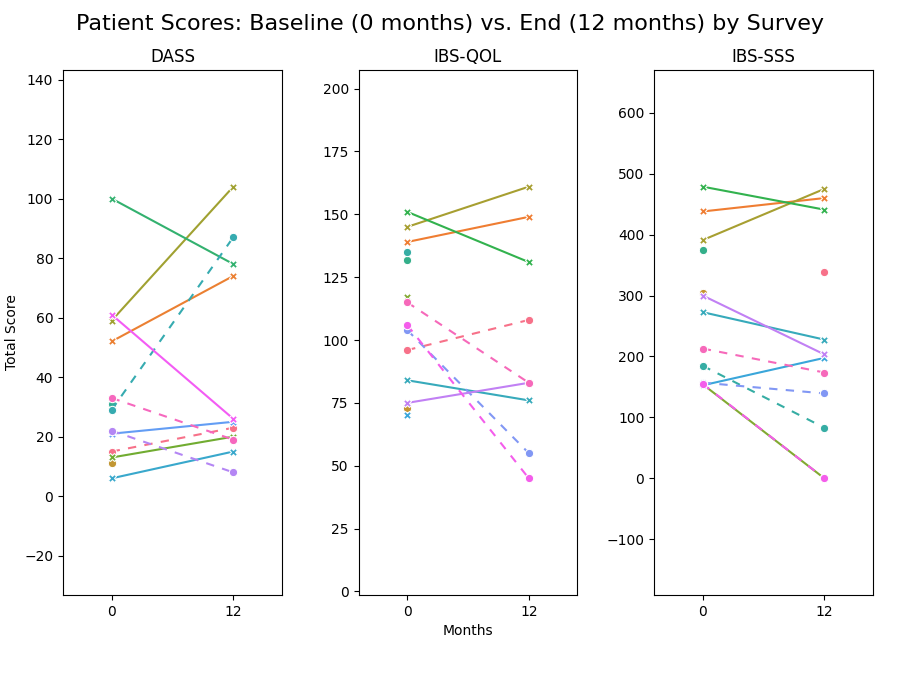
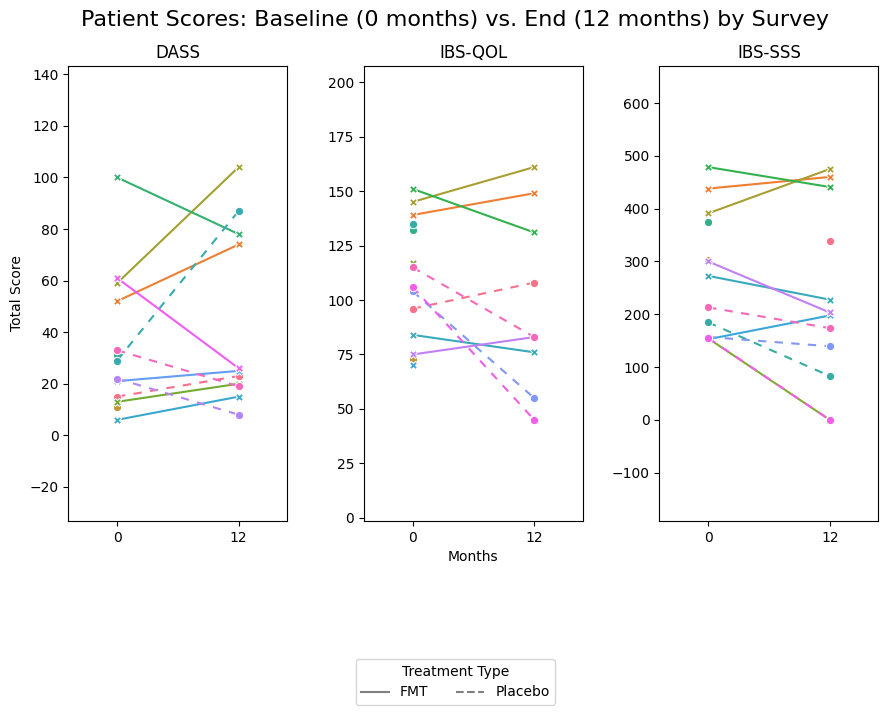
Added legend

diff --git a/plot_scores_hor.py b/plot_scores_hor.py
@@ -109,12 +109,24 @@ for i, survey_name in enumerate(survey_names):
 # Add a main title to the figure
 fig.suptitle('Patient Scores: Baseline (0 months) vs. End (12 months) by Survey', fontsize=16)  # Updated title
 
-# Adjust subplot parameters for better spacing and to accommodate suptitle
-fig.subplots_adjust(left=0.07, right=0.97, bottom=0.15, top=0.90, wspace=0.35)
+# Create a custom legend for just FMT vs Placebo
+# Create dummy lines for the legend
+fmt_line = plt.Line2D([0], [0], color='gray', linestyle='-', label='FMT')
+placebo_line = plt.Line2D([0], [0], color='gray', linestyle='--', label='Placebo')
+
+# Add the figure-level legend
+fig.legend([fmt_line, placebo_line], ['FMT', 'Placebo'],
+          loc='center', 
+          bbox_to_anchor=(0.5, 0.02),
+          ncol=2,
+          title='Treatment Type')
+
+# Adjust subplot parameters for better spacing and to accommodate suptitle and legend
+fig.subplots_adjust(left=0.07, right=0.97, bottom=0.25, top=0.90, wspace=0.35)
 
 # Save the combined plot
 combined_plot_filename = "results/all_surveys_start_end_plot.png"
-plt.savefig(combined_plot_filename)
+plt.savefig(combined_plot_filename, bbox_inches='tight')
 print(f"Combined plot saved as {combined_plot_filename}")
 plt.close(fig)
 
